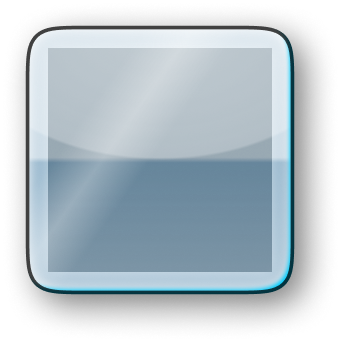
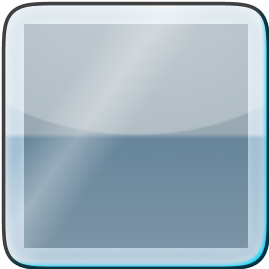
guess who's a dumbass

diff --git a/import.css b/import.css
@@ -1591,6 +1591,10 @@ div[aria-hidden="true"][style="height: 84px;"] {
 
   .avatarStack__44b0c {
     background-image: url(https://blade04208.github.io/7.theme.css/src/pfp.png);
+    background-size: contain!important;
+    >img {
+      display: none!important;
+    }
   }
 }
 
